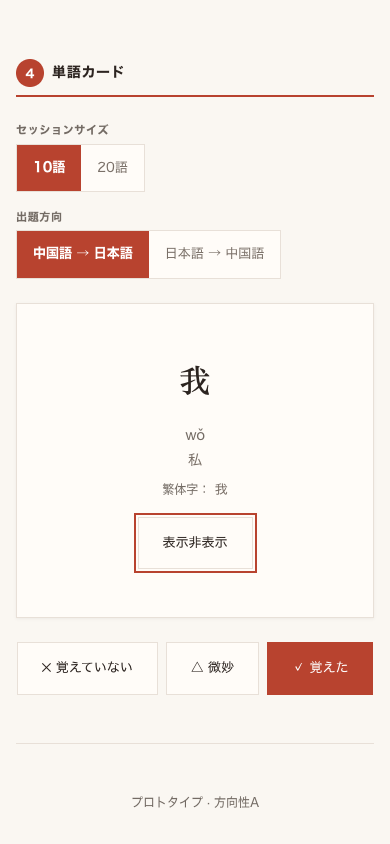
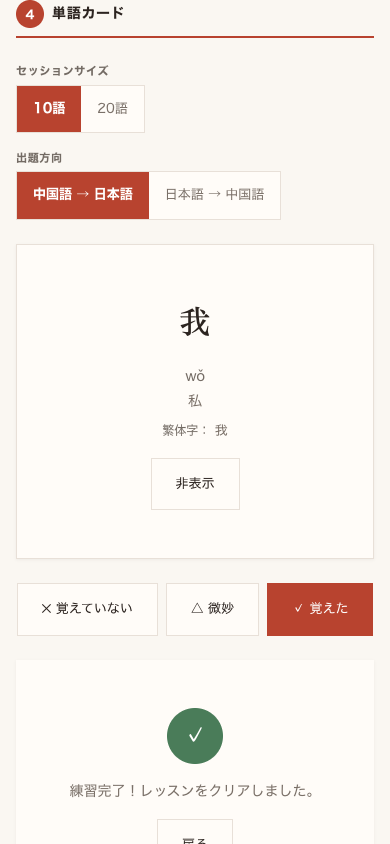
fix(a11y): remove summary text duplication, capture both PNGs with completion
- Replace summary::after generated content with two display-toggled spans
  so closed innerText is "表示" and open is "非表示"
- Add accessible name verification (no ::after, no aria-label masking)
- Re-capture mobile screenshot (390x844) with completion evidence
- Re-capture desktop screenshot (1440x900) with completion evidence
- Both screenshots: details open, hash=#vocab-completion, fullPage=false

diff --git a/docs/design/prototypes/direction-a-editorial.html b/docs/design/prototypes/direction-a-editorial.html
@@ -656,8 +656,9 @@
     min-width: 72px;
   }
   .flashcard-details summary::-webkit-details-marker { display: none; }
-  .flashcard-details summary::after { content: "表示"; }
-  .flashcard-details[open] summary::after { content: "非表示"; }
+  .flashcard-details summary .summary-hide { display: none; }
+  .flashcard-details[open] summary .summary-show { display: none; }
+  .flashcard-details[open] summary .summary-hide { display: inline; }
   .flashcard-details summary:hover { border-color: var(--color-accent); }
   .flashcard-details summary:focus-visible {
     outline: 2px solid var(--color-accent);
@@ -1038,7 +1039,7 @@
       <div class="flashcard__front" lang="zh-Hans">我</div>
 
       <details class="flashcard-details">
-        <summary lang="ja">表示</summary>
+        <summary lang="ja"><span class="summary-show">表示</span><span class="summary-hide">非表示</span></summary>
         <div class="flashcard-details__body">
           <div class="flashcard__pinyin" lang="zh-Latn">wǒ</div>
           <div class="flashcard__ja" lang="ja">私</div>
